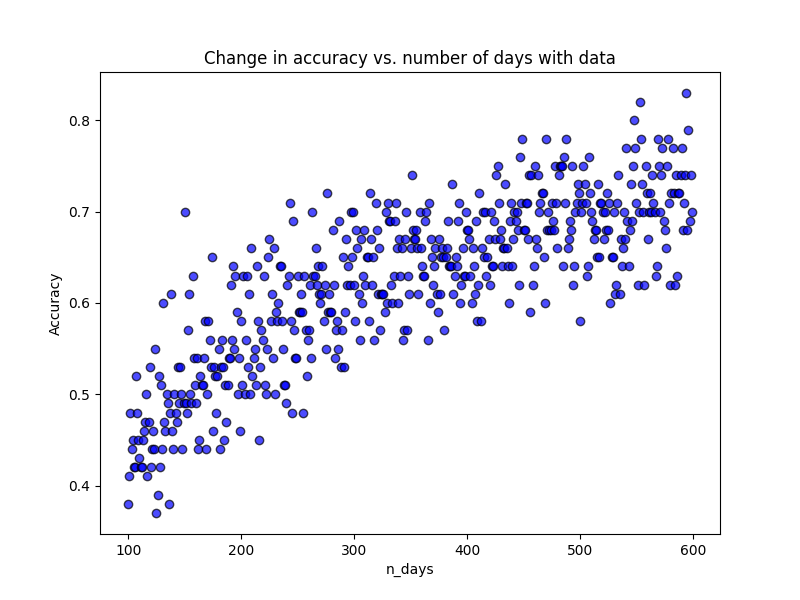
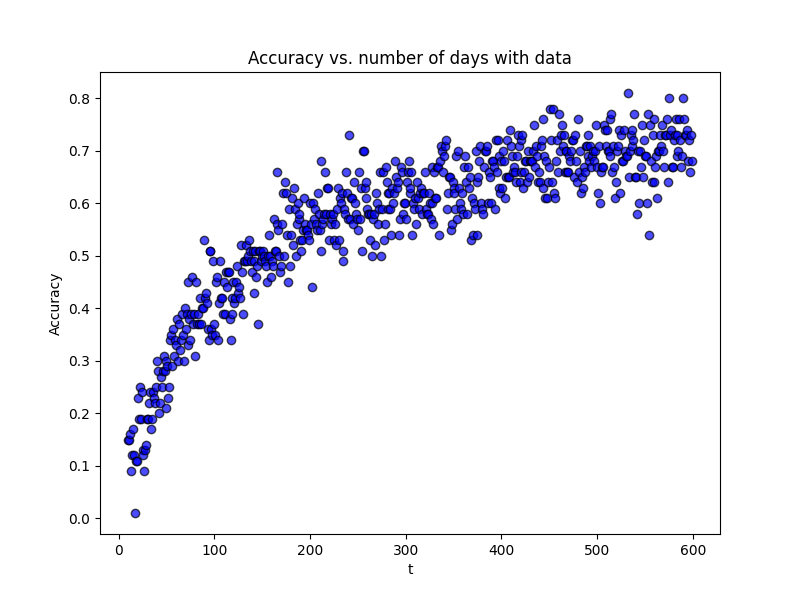
Updated figures and README

diff --git a/main.py b/main.py
@@ -96,7 +96,7 @@ def anlayze_accuracy():
     N_TOTAL_WORKERS = 20
     
     # Allow n_days to vary
-    min_n_days = 100
+    min_n_days = 10
     max_n_days = 600
     
     # Scatterplot data
@@ -107,14 +107,14 @@ def anlayze_accuracy():
         print(f'N_DAYS={n_days}')
         y[i] = run_n_simulations(N_SIMS, n_days, N_DAILY_WORKERS, N_TOTAL_WORKERS)
         
-    create_scatterplot(x, y, 'n_days', 'Accuracy', 'Accuracy vs. number of days with data')
+    create_scatterplot(x, y, 't', 'Accuracy', 'Accuracy vs. number of days with data')
     
 def simulate_chipotle():
-    N_DAYS = 20                 # 20 shifts are evaluated
+    N_DAYS = 30                 # 30 shifts are evaluated
     N_DAILY_WORKERS = 3         # 3 food-assembly workers per shift
     N_TOTAL_WORKERS = 20        # 20 total workers
     
-    N_EPOCHS = 100              # Number of times the worst-performing worker is replaced
+    N_EPOCHS = 200              # Number of times the worst-performing worker is replaced
     
     # Initial portions
     portions = np.random.normal(113, 25, (N_TOTAL_WORKERS))

diff --git a/README.md b/README.md
@@ -4,13 +4,51 @@
 
 This project investigates the potential capability of the fast-food chain Chipotle to control portion sizes at a certain location with only limited data. We assume that the data available to a Chipotle location is an employee schedule (i.e. a matrix of which employees have worked on which day) and an inventory (i.e. a vector of an ingredient's consumption on each day). For this project, we are interested in chicken consumption. Chipotle's website indicates that each chicken bowl should contain 113 grams of chicken. Suppose each of $n$ employees gives a portion $p_j \sim \mathcal{N}(113, 25)$, where $j = 1, 2, ..., n$. Every day $m \leq n$ employees are scheduled to work.
 
-The schedule matrix $S$ is a Markov matrix where
+The schedule matrix $S$ is defined by:
 
 $$
 S_{ij} = \begin{cases}
-    \frac{1}{m} & \text{if employee } j ${ works on day } i
-    0 & \text{otherwise}
+    1, & \text{if employee } j \text{ works on day } i \\
+    0, & \text{otherwise}
 \end{cases}
 $$
 
-Then we can compute each day's expected portion size $y = Sp$ where $p = (p_1, p_2, ..., p_n)$.
+Then we can compute each day's expected portion size (consumption) $Y = \frac{1}{m}Sp$ where $p = (p_1, p_2, ..., p_n)$.
+
+Finally, we want to fit the model:
+
+$$
+Y_i = \alpha + \beta_1 \cdot S_{i1} + \beta_2 \cdot S_{i2} + \dots + \beta_n \cdot S_{in}
+$$
+
+where each $\beta_j$ indicates employee $j$'s predicted portion size above the mean.
+
+## Simulations
+
+Chipotle may be interested in replacing the employee with the largest portion size in order to mitigate operating costs. The index of the true worst-performing employee is $\theta = \text{argmax } p$, and the index of the predicted worst-performing employee is $\hat{\theta} = \text{argmax } \beta$ where $\beta = (\beta_1, \beta_2, ..., \beta_n)$.
+
+### Prediction Accuracy
+
+First, we can look at the accuracy of $\hat{\theta} = \theta$ as the number of days of schedule and consumption data $t$ varies. This variable corresponds to the number of rows of both the schedule matrix and the consumption column vector. From some research on Chipotle's staffing practices, we will assume that $m = 3$ and $n = 20$. That is, there are 20 total employees at the certain Chipotle location, and a random choice of 3 employees work the food assembly line on any given day. For each $t$, we will run 100 simulations and report the accuracy of $\hat{\theta} = \theta$. Here are the results for $t \in {100, 101, ..., 600}:
+
+![Figure 1](./Figure_1.png)
+
+Clearly, the accuracy of predicting the worst-performing employee increases as the number of days with data increases.
+
+### Portion Reduction
+
+Next, we can use these performance predictions to simulate a Chipotle location's staffing operation. The steps are as follows:
+1. Generate an initial vector of 20 employees' portion sizes $p = (p_1, ... p_20)$ where $p_i \sim \mathcal{N}(113, 25)$.
+2. Simulate 30 days of scheduling and chicken consumption, and predict the worst-performing employee $j = \text{argmax } \beta$.
+3. Replace $p_j$ with a new portion from the distribution $\mathcal{N}(113, 25)$ (i.e. replace the worst-performing employee with a new employee).
+4. Repeat steps 2-3 as many times as desired.
+
+Below are the results for 200 replacement iterations every 30 days:
+
+![Figure 2](./Figure_2.png)
+
+The plot of average portion sizes illustrates that Chipotle can drive down portion sizes (even far below the target portion size of 113 grams) by incorporating the model designed in this project as an employee performance review.
+
+## Conclusion
+
+Does Chipotle use a practice such as this model to mitigate portion sizes at their locations? I don't know--I haven't worked at a Chipotle. But, the purpose of this project was to explore if Chipotle *can* predict their highest-cost employee with nothing but schedule and inventory data. While I acknowledge that this model is an enormous oversimplification of a Chipotle's operations, it is very effective at keeping portion sizes down.
